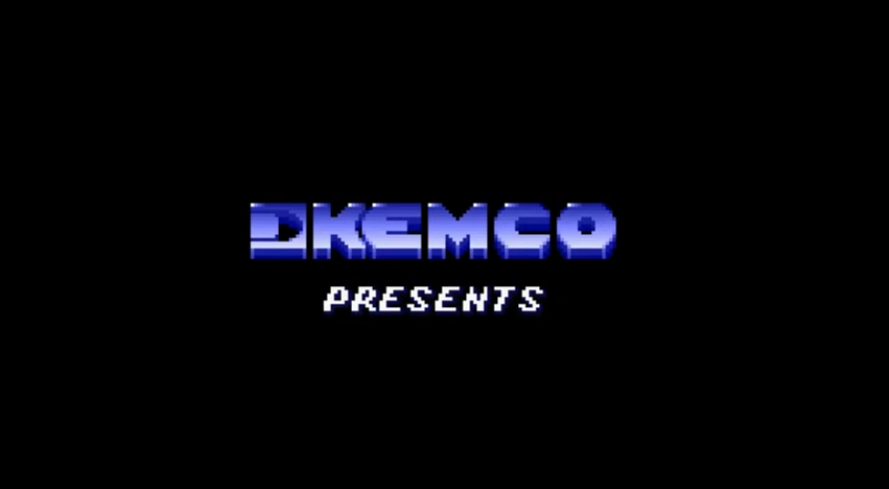
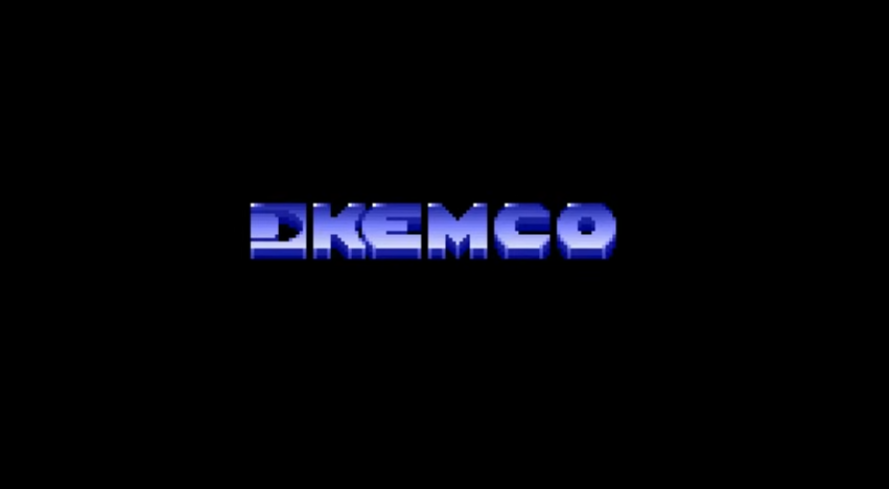
dasdasdas

Changed region(s): [[0.3645, 0.5828, 0.6378, 0.6442]]

diff --git a/primerScript.py b/primerScript.py
@@ -9,15 +9,17 @@ ALTO = 600
 FPS = 60
 
 ventana = pygame.display.set_mode((ANCHO, ALTO))
-pygame.display.set_caption("Mi nuevo juego")
-
+pygame.display.set_caption("TOPLLEAR")
+# INICIO INTRO 1
 reloj = pygame.time.Clock()
 
 # Cargar imagen de inicio
 imagen_inicio = pygame.image.load("images/topgear/intro.png").convert()
+imagen_inicio2 = pygame.image.load("images/topgear/img.png").convert()
 imagen_inicio = pygame.transform.scale(imagen_inicio, (ANCHO, ALTO))
+imagen_inicio2 = pygame.transform.scale(imagen_inicio2, (130, 30))
 
-# Cargar música
+#aca cargo la musica
 pygame.mixer.music.load("images/sonido/intro.mp3")
 pygame.mixer.music.play(-1)  # -1 para que se repita
 
@@ -49,34 +51,58 @@ def fade_out():
 # Aparece desde oscuro
 fade_in()
 
-tiempo_inicio = pygame.time.get_ticks()  # tiempo inicial
-duracion = 10000  # 10 segundos en milisegundos
+tiempo_inicio = pygame.time.get_ticks()
+duracion = 7000
+
+fade_logo_in = 1500     # aparece en 1.5 segundos
+tiempo_visible = 3500   # se queda visible
+fade_logo_out = 1500    # desaparece en 1.5 segundos
+
 
 mostrar_inicio = True
 
 while mostrar_inicio:
     reloj.tick(FPS)
 
+    tiempo_actual = pygame.time.get_ticks()
+    tiempo_pasado = tiempo_actual - tiempo_inicio
+
     ventana.blit(imagen_inicio, (0, 0))
 
-    # Texto opcional
-    fuente = pygame.font.SysFont("arial", 32)
-    texto = fuente.render("cargando...", True, (255, 255, 255))
-    ventana.blit(texto, (320, 520))
+    # Calcular opacidad de imagen_inicio2
+    alpha = 0
 
-    tiempo_actual = pygame.time.get_ticks()
+    if tiempo_pasado < fade_logo_in:
+        alpha = int((tiempo_pasado / fade_logo_in) * 255)
 
-    # Si pasan 10 segundos → fade out y salir
-    if tiempo_actual - tiempo_inicio > duracion:
+    elif tiempo_pasado < fade_logo_in + tiempo_visible:
+        alpha = 255
+
+    elif tiempo_pasado < fade_logo_in + tiempo_visible + fade_logo_out:
+        tiempo_salida = tiempo_pasado - fade_logo_in - tiempo_visible
+        alpha = int(255 - (tiempo_salida / fade_logo_out) * 255)
+
+    else:
+        alpha = 0
+
+    # Dibujar imagen_inicio2 con transparencia
+    if alpha > 0:
+        logo = imagen_inicio2.copy()
+        logo.set_alpha(alpha)
+
+        rect_logo = logo.get_rect()
+        rect_logo.x = 320
+        rect_logo.y = 330
+
+        ventana.blit(logo, rect_logo)
+
+
+        ventana.blit(logo, rect_logo)
+
+    # Cuando termina todo, recién desaparece el fondo
+    if tiempo_pasado > duracion:
         fade_out()
         mostrar_inicio = False
-
-    for event in pygame.event.get():
-        if event.type == pygame.QUIT:
-            pygame.quit()
-            sys.exit()
-
-    pygame.display.update()
 
     for event in pygame.event.get():
         if event.type == pygame.QUIT:
@@ -91,43 +117,120 @@ while mostrar_inicio:
     pygame.display.update()
 
 
-# Aquí empieza tu juego real
+# FIN INTRO 1
 #pygame.mixer.music.stop()
 angulo = 360
+angulo_gear = 360
 mostrar_press_start = False
 tiempo_final_titulo = None
 
-fondo = pygame.image.load("images/topgear/intro.png").convert()
+fondo = pygame.image.load("images/topgear/img_5.png").convert()
 fondo = pygame.transform.scale(fondo, (ANCHO, ALTO))
 
-titulo = pygame.image.load("images/topgear/intro.png").convert_alpha()
+titulo = pygame.image.load("images/topgear/top.png").convert_alpha()
 titulo = pygame.transform.scale(titulo, (400, 150))
+
+gear = pygame.image.load("images/topgear/gear.png").convert_alpha()
+gear = pygame.transform.scale(gear, (400, 150))
+
+y_titulo = -10
+y_final = 140
+
+y_gear = 650   # empieza FUERA de pantalla (abajo)
+y_gearfinal = 230
+
+velocidad = 5
+
+escala = 0.001
+escala_final = 1.0
+velocidad_escala = 0.01
+
+
+mostrar_gear = False
+delay_gear = 500  # milisegundos (0.5 segundos después del top)
 while True:
     reloj.tick(FPS)
 
     ventana.blit(fondo, (0, 0))
+    if y_titulo < y_final:
+        y_titulo += velocidad
+    else:
+        y_titulo = y_final
 
-    # Título girando
+
+
+
+    if escala < escala_final:
+        escala += velocidad_escala
+    else:
+        escala = escala_final
+
+    # Cuando ya llegó y ya creció, empieza el contador para PRESS START
+    if y_titulo == y_final and escala == escala_final:
+        if tiempo_final_titulo is None:
+            tiempo_final_titulo = pygame.time.get_ticks()
+
+    # Rotación
     if angulo > 0:
         angulo -= 4
     else:
         angulo = 0
-        if tiempo_final_titulo is None:
-            tiempo_final_titulo = pygame.time.get_ticks()
 
-    titulo_rotado = pygame.transform.rotate(titulo, angulo)
-    rect_titulo = titulo_rotado.get_rect(center=(ANCHO // 2, ALTO // 2 - 80))
-    ventana.blit(titulo_rotado, rect_titulo)
+    if mostrar_gear:
+        if angulo_gear > 0:
+            angulo_gear -= 4
+        else:
+            angulo_gear = 0
+
+    if mostrar_gear:
+        if y_gear > y_gearfinal:
+            y_gear -= velocidad
+        else:
+            y_gear = y_gearfinal
+    # Escalar primero
+    nuevo_ancho = int(400 * escala)
+    nuevo_alto = int(150 * escala)
+
+    titulo_escalado = pygame.transform.scale(titulo, (nuevo_ancho, nuevo_alto))
+    gear_escalado = pygame.transform.scale(gear, (nuevo_ancho, nuevo_alto))
+
+    # Rotar después de escalar
+    titulo_final = pygame.transform.rotate(titulo_escalado, angulo)
+    gear_final = pygame.transform.rotate(gear_escalado, angulo_gear)
+
+    # Posición manual centrada
+    rect_titulo = titulo_final.get_rect()
+    rect_titulo.x =200
+    rect_titulo.y = y_titulo
+
+    # Posición gear
+    rect_gear = gear_final.get_rect()
+    rect_gear.x = 230
+    rect_gear.y = y_gear
+
+    ventana.blit(titulo_final, rect_titulo)
+
+
+    if tiempo_final_titulo is not None:
+        if pygame.time.get_ticks() - tiempo_final_titulo > delay_gear:
+            mostrar_gear = True
+
+    if mostrar_gear:
+        ventana.blit(gear_final, rect_gear)
 
     # Luego de 1 segundo aparece PRESS START
     if tiempo_final_titulo is not None:
-        if pygame.time.get_ticks() - tiempo_final_titulo > 1000:
+        if pygame.time.get_ticks() - tiempo_final_titulo > 1500:
             mostrar_press_start = True
 
     if mostrar_press_start:
         fuente = pygame.font.SysFont("arial", 38)
         texto = fuente.render("PRESS START", True, (255, 255, 255))
-        rect_texto = texto.get_rect(center=(ANCHO // 2, ALTO // 2 + 120))
+
+        rect_texto = texto.get_rect()
+        rect_texto.x = ANCHO // 2 - rect_texto.width // 2
+        rect_texto.y = ALTO // 2 + 120
+
         ventana.blit(texto, rect_texto)
 
     for event in pygame.event.get():
@@ -138,6 +241,5 @@ while True:
         if event.type == pygame.KEYDOWN:
             if event.key == pygame.K_RETURN and mostrar_press_start:
                 print("Empieza el juego")
-                # aquí luego llamas a tu juego principal
 
     pygame.display.update()
